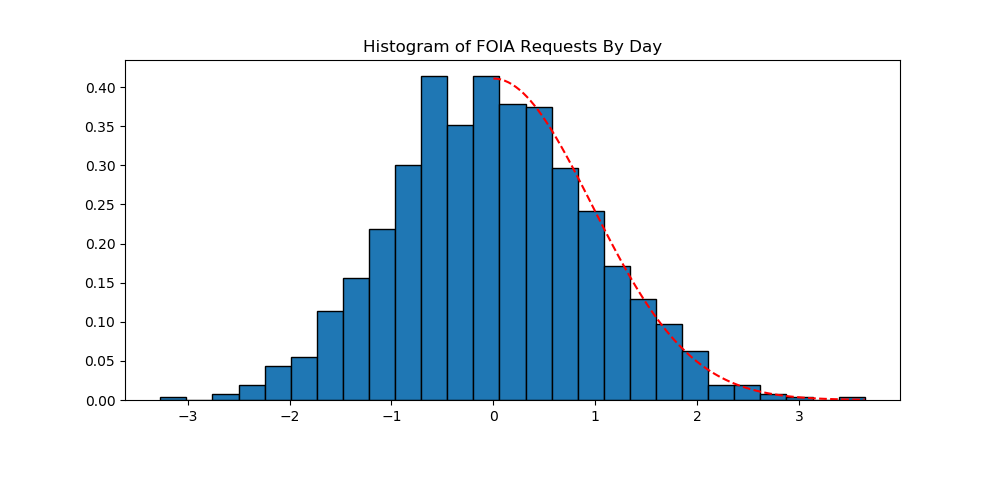
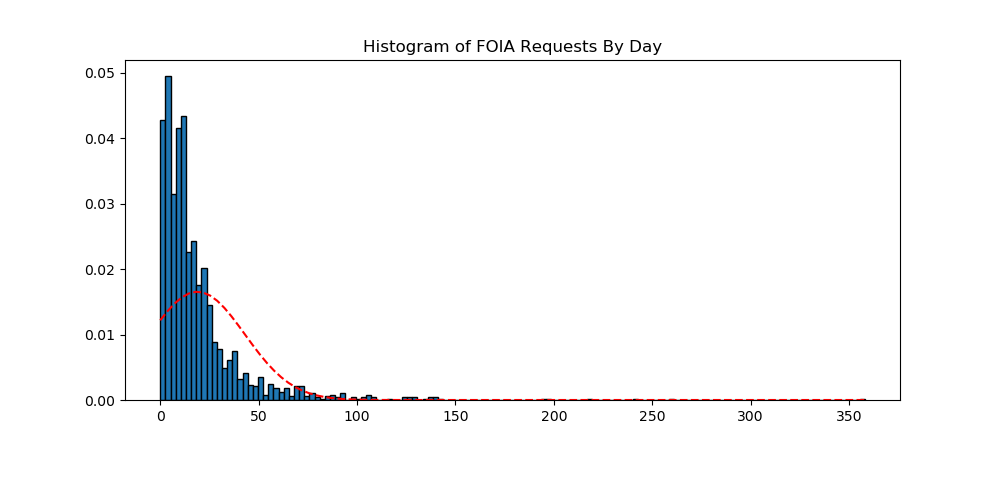
Rewrote the logic for plotSuccessesByDay() and some util functions

diff --git a/Main.py b/Main.py
@@ -1,5 +1,6 @@
 from collections import defaultdict
 import datetime as dt
+from functools import lru_cache
 from itertools import filterfalse
 from itertools import groupby
 import numpy as np
@@ -11,9 +12,10 @@ import plotly.graph_objs as go
 import RetrieveDataset as retrieve
 import scipy.stats as stats
 
-
-YEAR_START = 2013
+YEAR_START = 2014
 YEAR_END = 2018
+DATE_START = '2014-01-01'
+DATE_END = '2019-01-01'
 DISP_FULL_TESTS = False
 
 
@@ -35,7 +37,7 @@ def main():
 	
 	printRequestStatuses(foiaRequests)
 	#print(foiaRequests[0])
-	plotRequestStatuses(foiaRequests)
+	#plotRequestStatuses(foiaRequests)
 	#plotSuccessesByYear(foiaRequests)
 	
 	#plotSuccessesByMonth(foiaRequests)
@@ -99,7 +101,7 @@ def plotRequestStatuses(foiaRequests):
 			
 	statusCount = dict(sorted(statuses.items(), key=operator.itemgetter(1)))
 	
-	fig = figure(7)
+	fig = figure()
 	plt.title('Breakdown of FOIA Request Statuses')
 	plt.pie(list(statusCount.values()), autopct='%1.1f%%', counterclock=False)
 	plt.axis('equal')
@@ -128,6 +130,50 @@ def plotRequestStatuses(foiaRequests):
 
 
 def plotSuccessesByDay(foiaRequests):
+	dateRange = getDateRange()
+	dailyRequestsGrouped = groupby(foiaRequests, key=lambda x: x['date_year_month_day'])
+	dailyTotal = defaultdict(int)
+	dailySuccessful = defaultdict(int)
+	for date, items in dailyRequestsGrouped:
+		requests = list(items)
+		dailyTotal[date] += len(requests)
+		for request in requests:
+			if request['is_successful']:
+				dailySuccessful[date] += 1
+	dailySuccessfulPercent = defaultdict(int)
+	for date in dateRange:
+		if dailyTotal[date] != 0:
+			dailySuccessfulPercent[date] = float(dailySuccessful[date]) / float(dailyTotal[date]) * 100
+	
+	fig = figure()
+	plt.title('Histogram of FOIA Requests By Day')
+	yFilteredTotal = list(dailyTotal.values())
+	n, bins, patches = plt.hist(yFilteredTotal, bins='auto', edgecolor='black', density=True)
+	mu = np.mean(yFilteredTotal)
+	sigma = np.std(yFilteredTotal)
+	x = np.linspace(0, bins[len(bins)-1], 100)
+	fit = stats.norm.pdf(x, mu, sigma)
+	plt.plot(x, fit, 'r--')
+	plt.savefig('figures/daily_histogram.png')
+	
+	fig = figure()
+	plt.title('Histogram of Percentages of Successful FOIA Requests By Day')
+	yFilteredSuccessPercent = list(dailySuccessfulPercent.values())
+	n, bins, patches = plt.hist(yFilteredSuccessPercent, bins='auto', edgecolor='black', density=True)
+	mu = np.mean(yFilteredSuccessPercent)
+	sigma = np.std(yFilteredSuccessPercent)
+	x = np.linspace(0, 100, 100)
+	fit = stats.norm.pdf(x, mu, sigma)
+	plt.plot(x, fit, 'r--')
+	plt.savefig('figures/daily_histogram_successful_percentage.png')
+	
+	normalityTests(yFilteredTotal, 'FOIA Requests By Day', 0.01)
+	normalityTests(yFilteredSuccessPercent, 'Percentages of Successful FOIA Requests By Day', 0.01)
+	
+	return
+
+'''
+def plotSuccessesByDayOld(foiaRequests):
 	dates = {}
 	Xlabels = []
 	for year in np.arange(YEAR_START-1, YEAR_END+2):
@@ -419,7 +465,7 @@ def plotSuccessesByMonth(foiaRequests):
 	normalityTests(yFilteredTotal, 'FOIA Requests By Year and Month', 0.01)
 	normalityTests(yFilteredSuccessPercent, 'Percentages of Successful FOIA Requests By Year and Month', 0.01)
 	return
-
+'''
 	
 def normalityTests(data, title, significanceLevel=0.05):
 	# Shapiro-Wilk test for normality
@@ -441,8 +487,9 @@ def normalityTests(data, title, significanceLevel=0.05):
 			print('Do not reject Ho. At the alpha={:.2f}'.format(significanceLevel) + ' significance level, there is insufficiant evidence to indicate that the distribution of ' + title + ' is not normal.')
 			print('')
 		print('The distribution of ' + title + ' IS normal.')
-	print('')
-	print('')
+	if DISP_FULL_TESTS:
+		print('')
+		print('')
 	
 	# Anderson-Darling test for normality
 	A2, critialValues, significanceLevels = stats.anderson(data, dist='norm')
@@ -465,11 +512,12 @@ def normalityTests(data, title, significanceLevel=0.05):
 			print('Reject Ho. At the alpha={:.2f}'.format(significanceLevel) + ' significance level, there is sufficiant evidence to indicate that the distribution of ' + title + ' is not normal.')
 			print('')
 		print('The distribution of ' + title + ' IS NOT normal.')
-	print('')
-	print('')
+	if DISP_FULL_TESTS:
+		print('')
+		print('')
 	return
 	
-
+'''
 def plotSuccessesByAverageMonth(foiaRequests):
 	X = np.arange(0, 12)
 	data = {}
@@ -594,7 +642,7 @@ def plotSuccessesByAverageMonth(foiaRequests):
 	plt.savefig('figures/month_normalized_percent_successful.png')
 	
 	return
-
+'''
 
 def printRequestStatuses(foiaRequests):
 	print('Record Statuses:')
@@ -632,11 +680,22 @@ def printDocumentTitlesOnDay(foiaRequests, dateTime):
 	return
 
 
+def getDateStr(date):
+	return date.strftime("%Y-%m-%d")
+
+
 def getDate(dateStr):
 	try:
 		return dt.datetime.strptime(dateStr, "%Y-%m-%dT%H:%M:%S.%f").date()
 	except:
 		return dt.datetime.strptime(dateStr, "%Y-%m-%dT%H:%M:%S").date()
+
+
+@lru_cache(maxsize=None)
+def getDateRange(start=DATE_START, end=DATE_END):
+	dateStart = dt.datetime.strptime(start, "%Y-%m-%d")
+	dateEnd = dt.datetime.strptime(end, "%Y-%m-%d")
+	return [getDateStr(dateStart + dt.timedelta(days=x)) for x in range(0, (dateEnd - dateStart).days)]
 
 
 def isStatusSuccessful(status):
